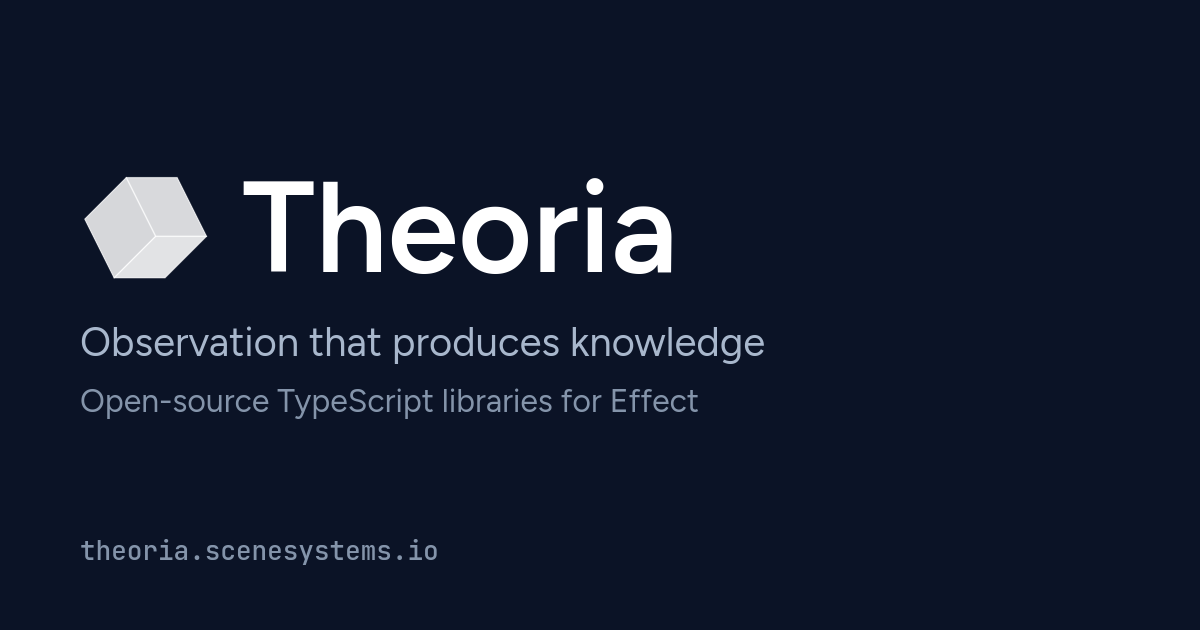
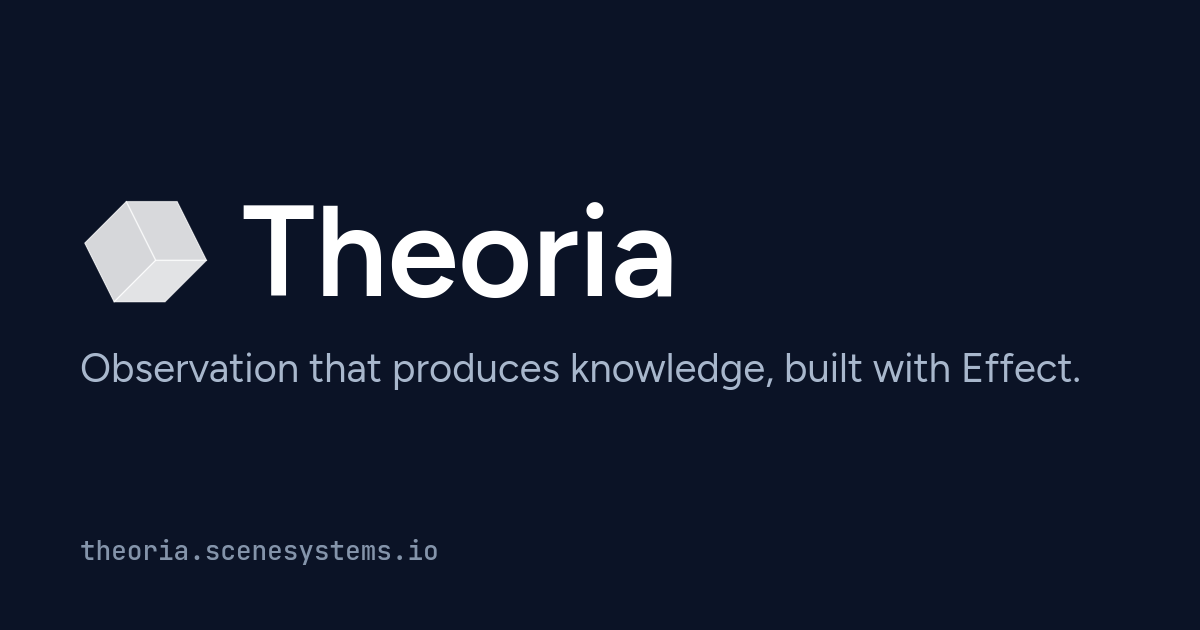
fix(theoria): one-line share card tagline
"Observation that produces knowledge, built with Effect." composed from the
footer tagline; drop the separate shortDescription field.

Amp-Thread-ID: https://ampcode.com/threads/T-01a061d5-2378-7197-9988-70cc24e4233d

Changed region(s): [[0.0617, 0.5127, 0.8942, 0.6635], [0.0617, 0.2714, 0.5858, 0.4825]]

diff --git a/apps/theoria/scripts/social-assets/cards.ts b/apps/theoria/scripts/social-assets/cards.ts
@@ -146,19 +146,11 @@ const logoLockup = (mark: Mark, fonts: Fonts, x: number, baseline: number, fontS
   ]
 }
 
-/** The site card: logo lockup, tagline, what the project is, hostname. */
-export const siteCard = (
-  mark: Mark,
-  fonts: Fonts,
-  tagline: string,
-  shortDescription: string,
-  host: string,
-  output: string
-): ReadonlyArray<string> => [
+/** The site card: logo lockup, one tagline line, hostname. */
+export const siteCard = (mark: Mark, fonts: Fonts, tagline: string, host: string, output: string): ReadonlyArray<string> => [
   ...canvas(shareCardSize.width, shareCardSize.height, palette.stage),
-  ...logoLockup(mark, fonts, margin, 272, 128),
-  ...annotate(fonts.sans, 40, palette.inkMuted, margin, 356, tagline),
-  ...annotate(fonts.sans, 32, palette.inkFaint, margin, 412, shortDescription),
+  ...logoLockup(mark, fonts, margin, 296, 128),
+  ...annotate(fonts.sans, 40, palette.inkMuted, margin, 382, tagline),
   ...annotate(fonts.mono, 26, palette.inkFaint, margin, 560, host),
   ...png8(output)
 ]

diff --git a/apps/theoria/app/contracts/metadata.ts b/apps/theoria/app/contracts/metadata.ts
@@ -26,8 +26,6 @@ export const SiteMetadata = Schema.Struct({
   defaultDescription: NonEmptyString,
   /** The meaning of θεωρία, shown under the wordmark in the footer and on the site share image. */
   tagline: NonEmptyString,
-  /** What the project is, in one line, for the site share image. */
-  shortDescription: NonEmptyString,
   twitterHandle: Schema.Literal("@scenesystems"),
   locale: Schema.Literal("en_US"),
   repositoryUrl: Schema.Literal("https://github.com/scenesystems/theoria")
@@ -47,7 +45,6 @@ export const siteMetadata: SiteMetadata = {
   defaultDescription:
     "Open-source TypeScript libraries for numerics, optimization, language-model programming, text layout, and cryptography, built with Effect.",
   tagline: "Observation that produces knowledge",
-  shortDescription: "Open-source TypeScript libraries for Effect",
   twitterHandle: "@scenesystems",
   locale: "en_US",
   repositoryUrl: "https://github.com/scenesystems/theoria"

diff --git a/apps/theoria/scripts/generate-social-assets.ts b/apps/theoria/scripts/generate-social-assets.ts
@@ -130,7 +130,7 @@ const program = Effect.gen(function*() {
   yield* fileSystem.makeDirectory(path.join(publicRoot, "social"), { recursive: true })
 
   const jobs: ReadonlyArray<ReadonlyArray<string>> = [
-    siteCard(mark, fonts, siteMetadata.tagline, siteMetadata.shortDescription, host, "social/theoria.png"),
+    siteCard(mark, fonts, `${siteMetadata.tagline}, built with Effect.`, host, "social/theoria.png"),
     ...Arr.map(packages, (published) =>
       packageCard(
         mark,
